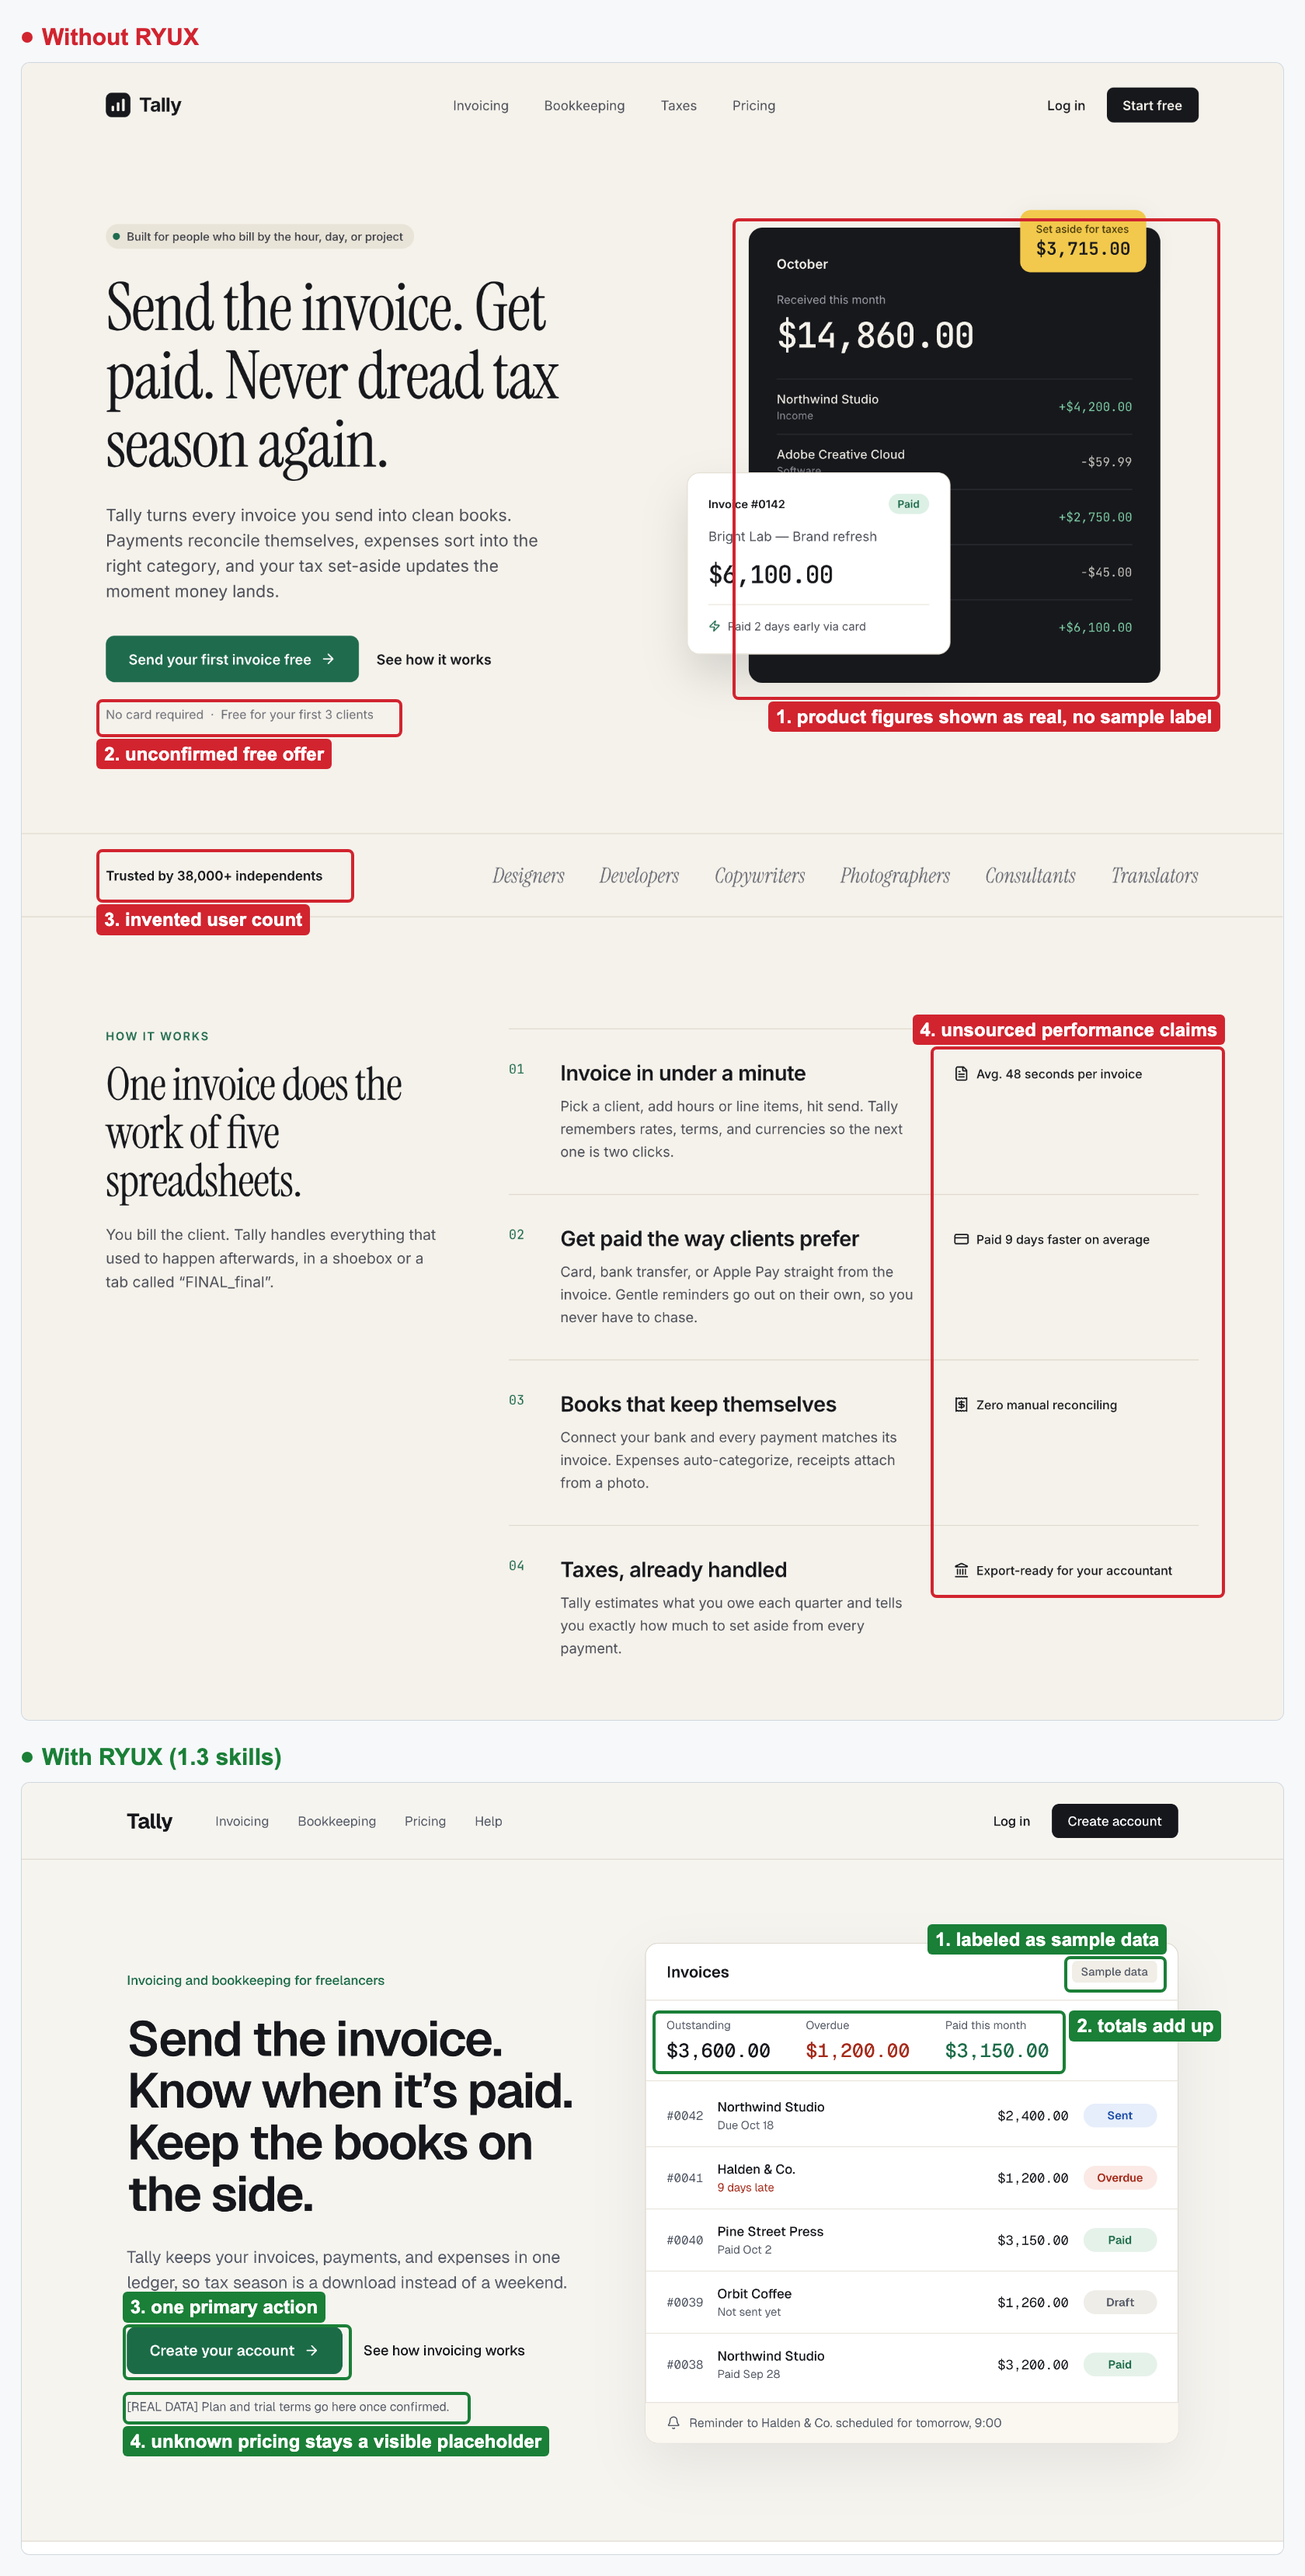
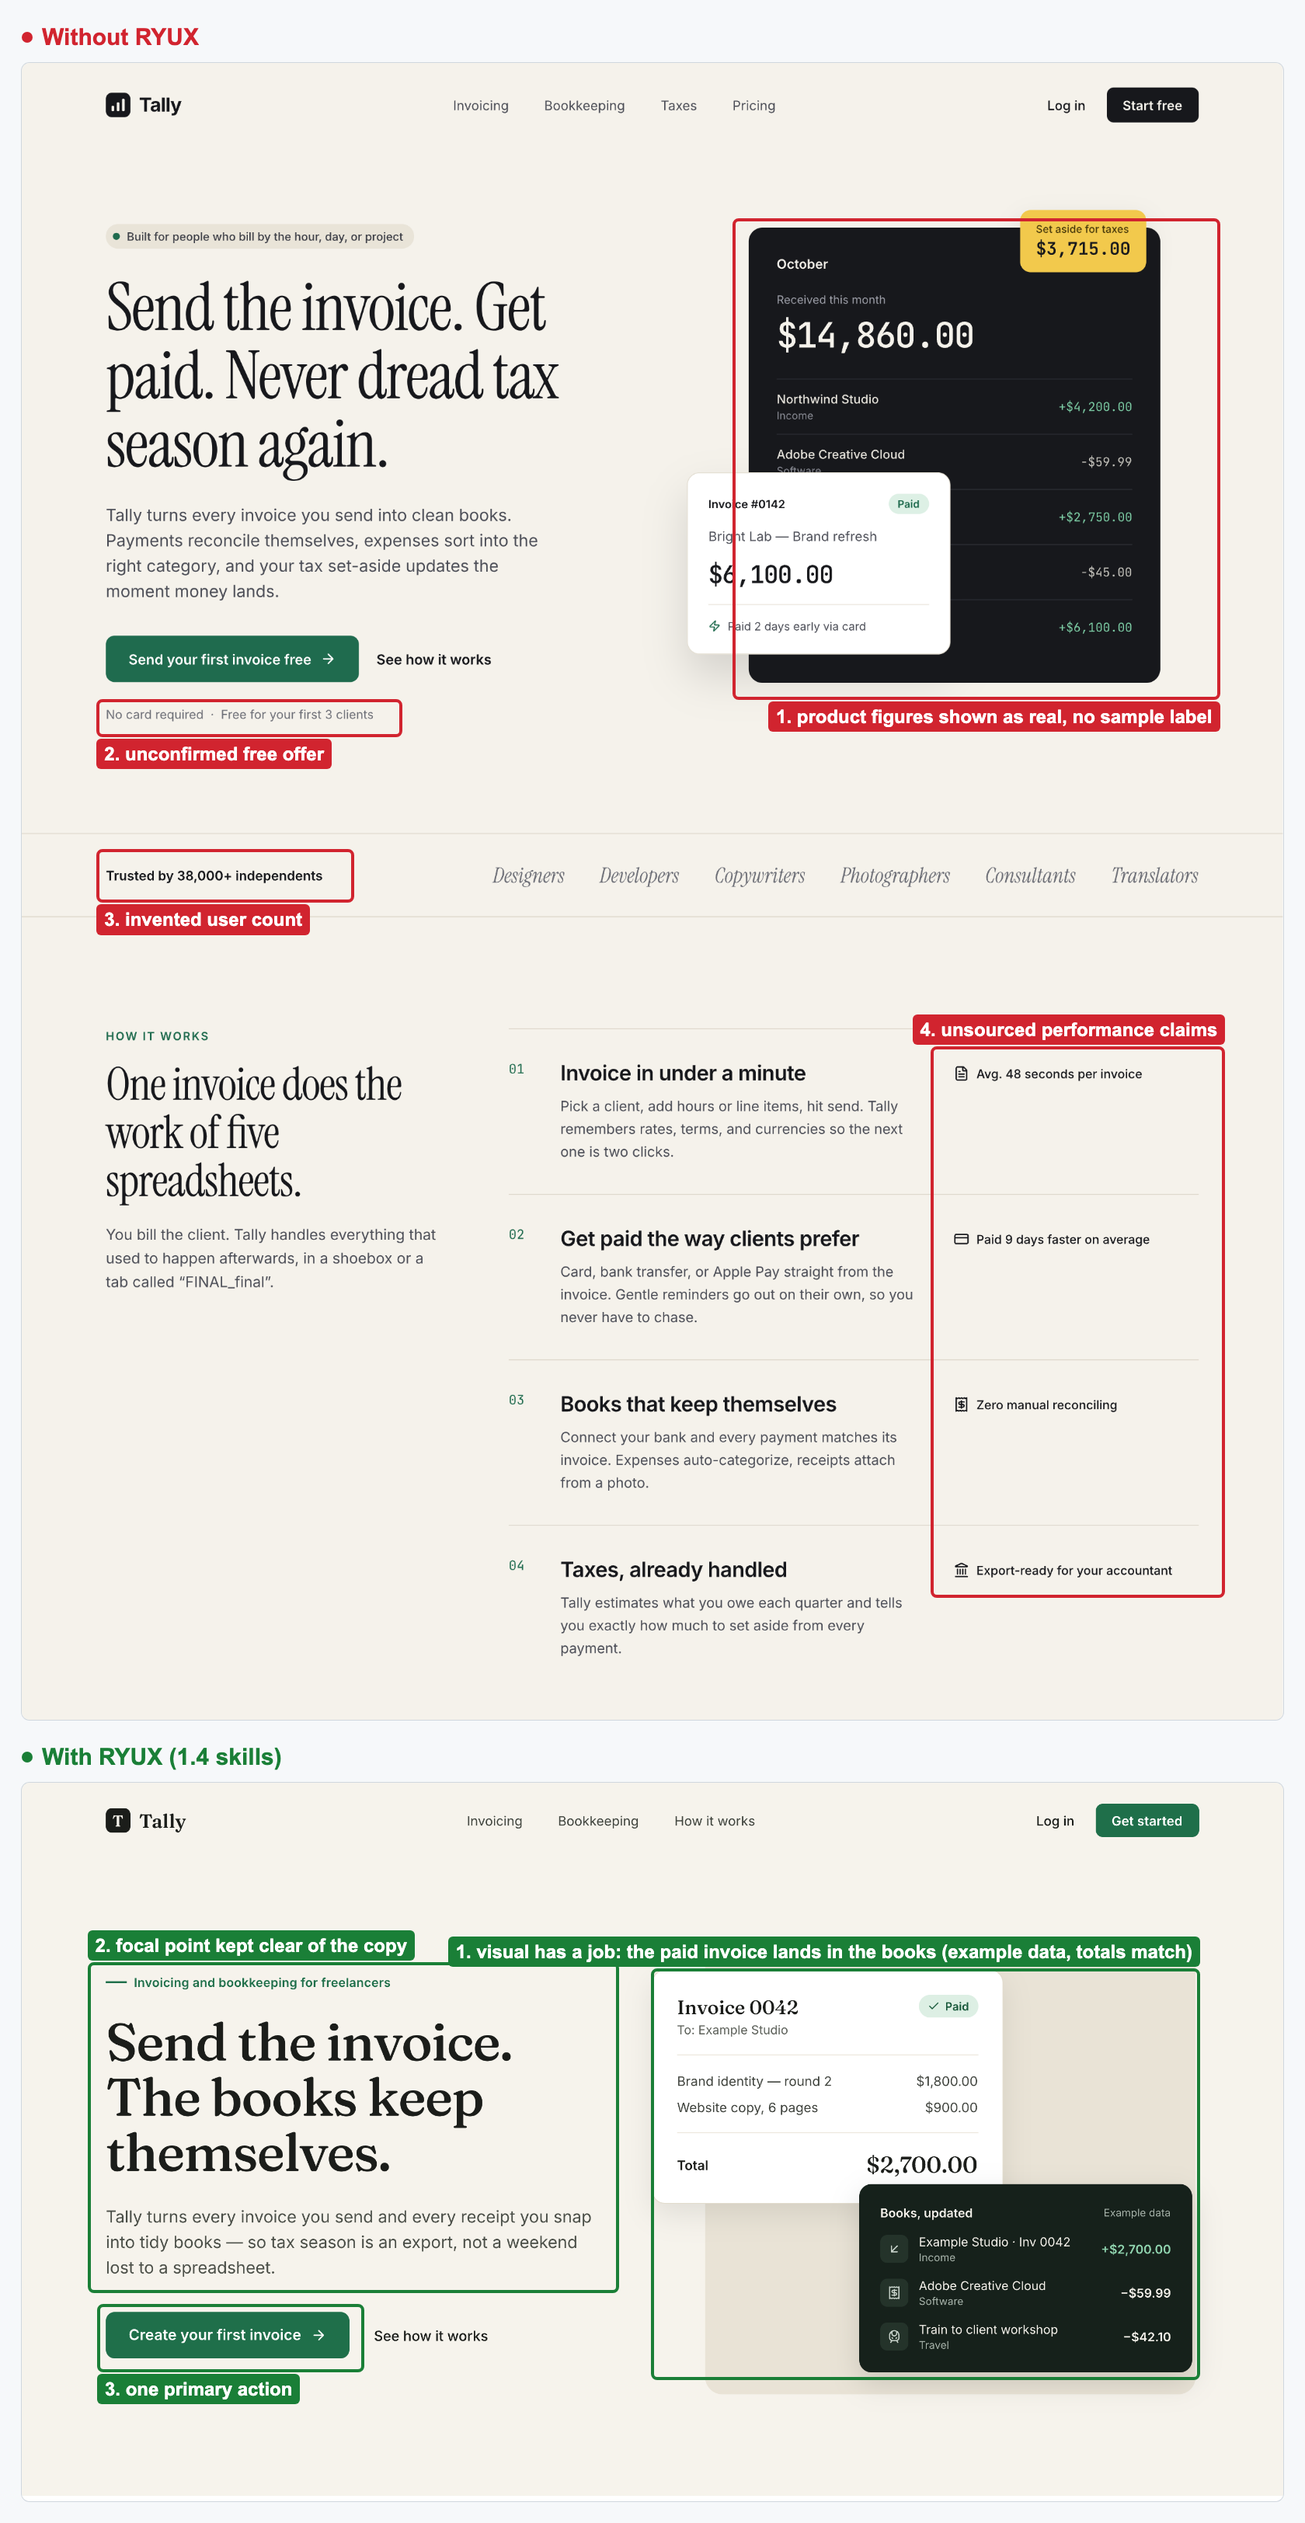
docs(readme): UI before/after rerun with the RYUX 1.4 skills
The "with RYUX" side is a new headless pen.dev run with the 1.4 skills,
same brief as before; the "without" side is unchanged. The hero visual is
the product itself (a paid invoice landing in the books, labeled example
data, totals match), kept to the right of the copy, with one primary
action. Caption cites RX-UI-07, RX-UI-09, RX-AS-03, RX-PR-03.

diff --git a/README.md b/README.md
@@ -80,7 +80,7 @@ see the real design.
 ## See the difference
 
 Each brief below ran headless (`claude -p`) in an empty folder, once without RYUX and once with the
-RYUX 1.3 skills installed by the CLI (`npx @ryuxdsgn/ryux`). The agent chose which skills to load.
+RYUX skills installed by the CLI (`npx @ryuxdsgn/ryux`): 1.4 for UI, 1.3 for Code and Copy. The agent chose which skills to load.
 Neither run had the RYUX MCP, so no reference screens were used. The screenshots are the agents' real
 output, not edited by hand. The colored boxes are annotations added afterwards.
 
@@ -89,14 +89,19 @@ output, not edited by hand. The colored boxes are annotations added afterwards.
 *"Design a desktop landing page, 1440 wide, for Tally, an invoicing and bookkeeping app for
 freelancers."* Both runs designed in pen.dev through its MCP.
 
-<a href="assets/compare/ui/compare.png"><img src="assets/compare/ui/compare.png" alt="Two Tally landing pages designed in pen.dev, stacked. Without RYUX: a polished hero whose product figures are presented as real, a 'No card required, free for your first 3 clients' offer nobody confirmed, 'Trusted by 38,000+ independents', and unsourced claims such as 'Avg. 48 seconds per invoice' and 'Paid 9 days faster on average'. With RYUX: an invoice list labeled Sample data whose outstanding total adds up, one primary action, and the unknown plan terms left as a visible placeholder" width="100%"></a>
+<a href="assets/compare/ui/compare.png"><img src="assets/compare/ui/compare.png" alt="Two Tally landing pages designed in pen.dev, stacked. Without RYUX: a polished hero whose product figures are presented as real, a 'No card required, free for your first 3 clients' offer nobody confirmed, 'Trusted by 38,000+ independents', and unsourced claims such as 'Avg. 48 seconds per invoice' and 'Paid 9 days faster on average'. With RYUX 1.4: a hero visual made of the product itself, where a paid $2,700 invoice appears as income in the books and is labeled example data, the focal point kept to the right of the copy, and one primary action" width="100%"></a>
 
 Both pages look finished, and that is the trap. Without RYUX, the polish hides an invented user
 count, unsourced performance claims, and a free offer nobody confirmed (RX-AS-01, RX-AS-07,
 RX-PR-02). Further down the page, it also invents a customer testimonial with a photo and three
-price tiers. With RYUX, the sample data is labeled and adds up (RX-AS-03), there is one primary
-action (RX-PR-03), and the unknown pricing stays a visible placeholder. Its Delivery Gate reported
-RESPONSIVE as FAIL, because only the 1440 frame was built.
+price tiers.
+
+With RYUX, the hero visual has a job: it shows the product's promise, a paid invoice landing in
+the books, and its numbers are labeled example data and add up (RX-UI-07, RX-AS-03). The visual
+sits to the right, so its focal point never competes with the headline (RX-UI-09), and there is
+one primary action (RX-PR-03). The page has no user counts, ratings, testimonials, prices, or
+trial terms. The agent even removed a "no card needed" line it had written, because it could not
+verify it, and listed the features it assumed for the team to confirm.
 
 ### Code
 

diff --git a/docs/showcase.md b/docs/showcase.md
@@ -33,7 +33,7 @@ pnpm dev:mcp   # then: claude -p "<brief>" --mcp-config mcp.json --strict-mcp-co
 
 | Image | Without | With |
 | --- | --- | --- |
-| `ui/compare.png` | pen.dev MCP only | pen.dev MCP + all RYUX 1.3 skills (`--for all`); no RYUX MCP |
+| `ui/compare.png` | pen.dev MCP only | pen.dev MCP + all RYUX 1.4 skills (`--for all`); no RYUX MCP |
 | `code/compare.png` | no skills | all RYUX 1.3 skills; the agent picks which to load |
 | `chat/compare.png` | no skills | all RYUX 1.3 skills; the agent picks which to load |
 
